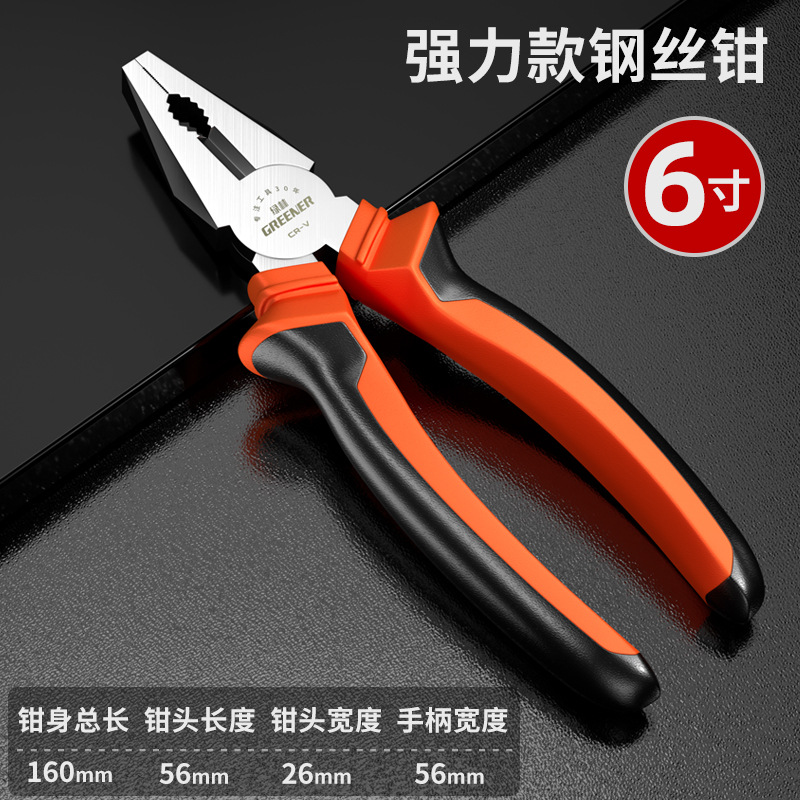
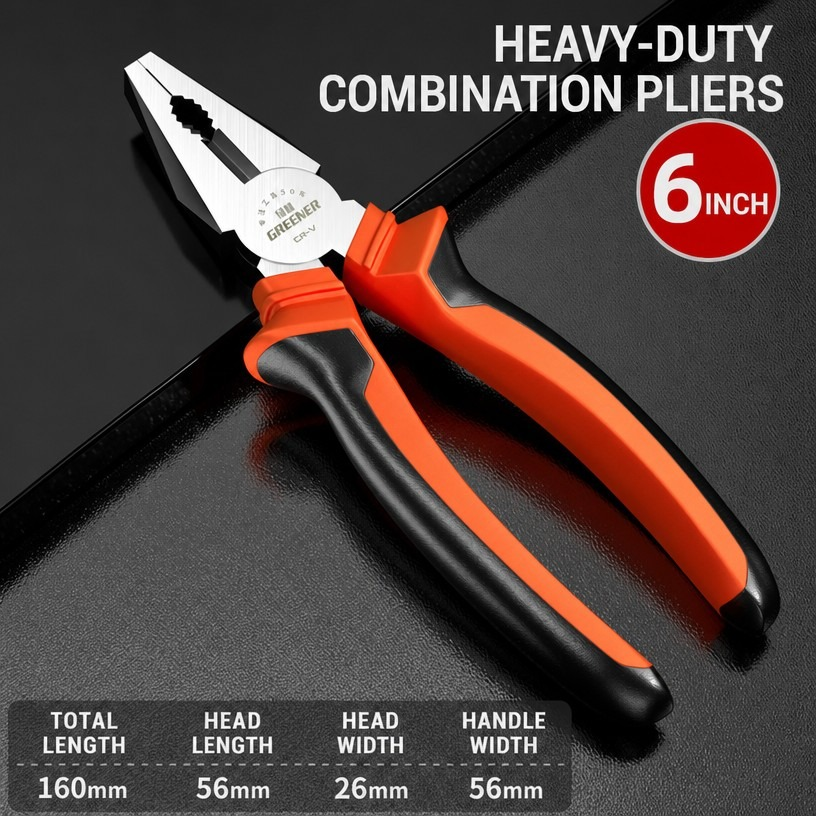
English-only product images - remove all Chinese text from 11 images

diff --git a/download_edited.py b/download_edited.py
@@ -1,0 +1,42 @@
+# -*- coding: utf-8 -*-
+"""Download AI-edited (English-only) product images and replace local files."""
+import os, urllib.request
+from PIL import Image
+from io import BytesIO
+
+BASE = os.path.dirname(os.path.abspath(__file__))
+IMG_DIR = os.path.join(BASE, "images")
+
+URLS = {
+    "brushless-cordless-drill": "https://sc02.alicdn.com/kf/A4db5991074024160bfefdd630f4f30dcO.png",
+    "stainless-steel-soft-close-hinge": "https://sc02.alicdn.com/kf/Aad39a6e9d7ec42f8a2a3008b01547e3dK.png",
+    "black-aluminum-cabinet-handle": "https://sc02.alicdn.com/kf/A48fa671b712e4d9f941ade2e5cb70f8f6.png",
+    "heavy-duty-swivel-caster": "https://sc02.alicdn.com/kf/A16b1a59aa4ff4aaab4b000dc2bfc3e2fe.png",
+    "72-tooth-ratchet-wrench-set": "https://sc02.alicdn.com/kf/Af4e31741cf8045528e3bc6b12bef0cccv.png",
+    "magnetic-screwdriver-set": "https://sc02.alicdn.com/kf/A2b3ce28f9c61427996297402476bc084w.png",
+    "industrial-lineman-pliers": "https://sc02.alicdn.com/kf/A499fc6d33fbd48aabe7c34df0c223050z.png",
+    "brushless-cordless-angle-grinder": "https://sc02.alicdn.com/kf/A8c5cf6b0ba42415abbde825d86ba399bc.png",
+    "brushless-impact-wrench": "https://sc02.alicdn.com/kf/A58573715e6984529bfc4d05099980a61Z.png",
+    "air-impact-wrench": "https://sc02.alicdn.com/kf/Ab66caaff2ec446fd8d4f6289f116ace78.png",
+    "pneumatic-air-nailer": "https://sc02.alicdn.com/kf/A35cfcf82eec7460195a59229b99b96ecx.png",
+}
+
+UA = {"User-Agent": "Mozilla/5.0 (Windows NT 10.0; Win64; x64) AppleWebKit/537.36 Chrome/126.0 Safari/537.36"}
+
+for slug, url in URLS.items():
+    try:
+        req = urllib.request.Request(url, headers=UA)
+        data = urllib.request.urlopen(req, timeout=60).read()
+        img = Image.open(BytesIO(data))
+        if img.mode in ("RGBA", "P", "LA"):
+            img = img.convert("RGBA")
+            bg = Image.new("RGB", img.size, (255, 255, 255))
+            bg.paste(img, mask=img.split()[-1])
+            img = bg
+        else:
+            img = img.convert("RGB")
+        dest = os.path.join(IMG_DIR, slug + ".jpg")
+        img.save(dest, "JPEG", quality=92)
+        print(f"{slug}: {len(data)} bytes -> {os.path.getsize(dest)} bytes jpg {img.size}")
+    except Exception as e:
+        print(f"{slug}: FAILED {e}")
